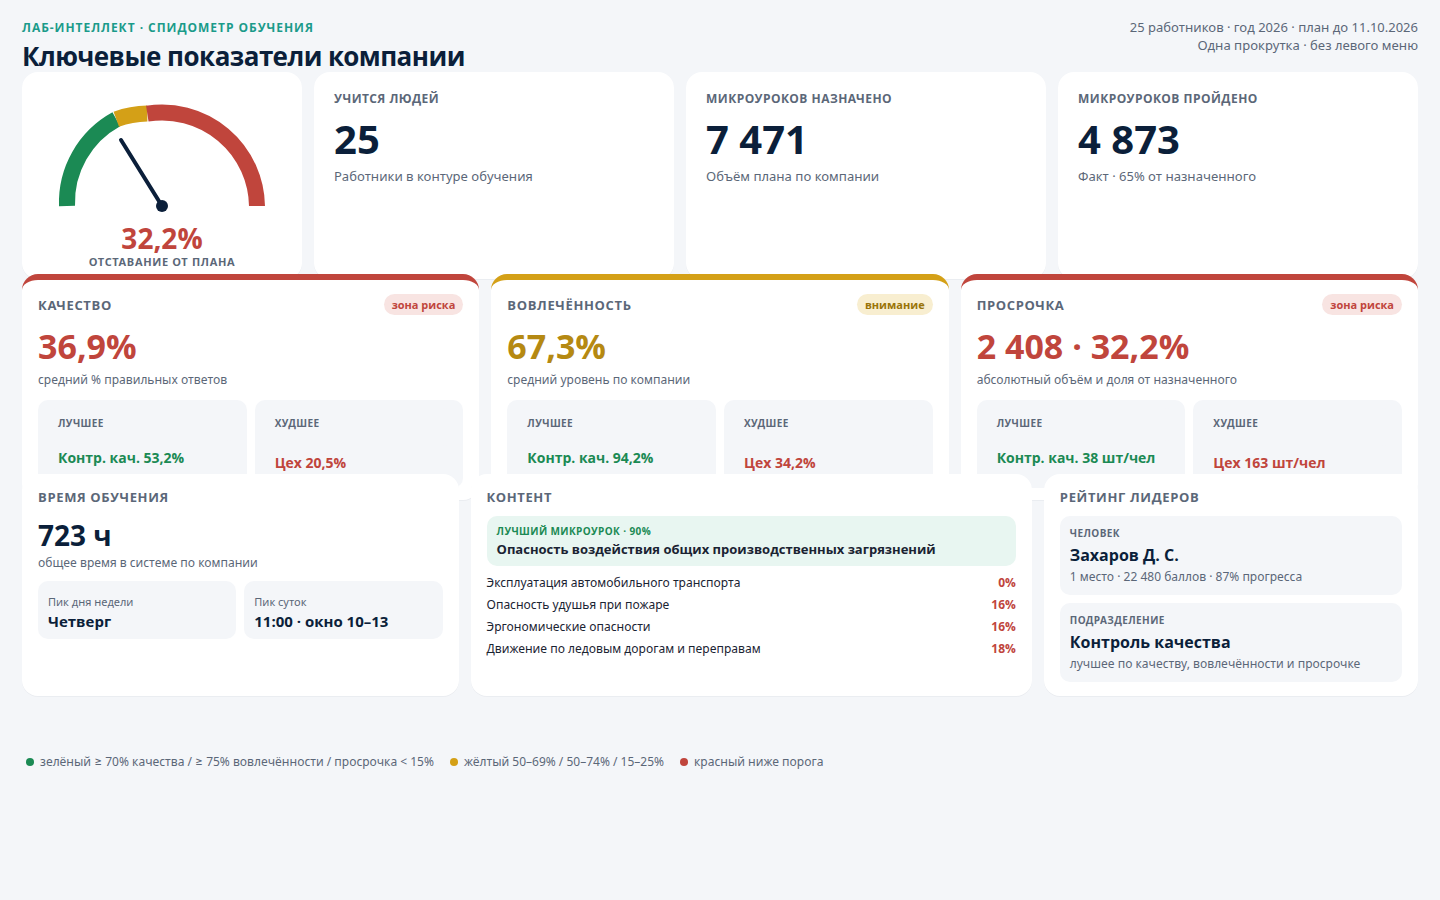
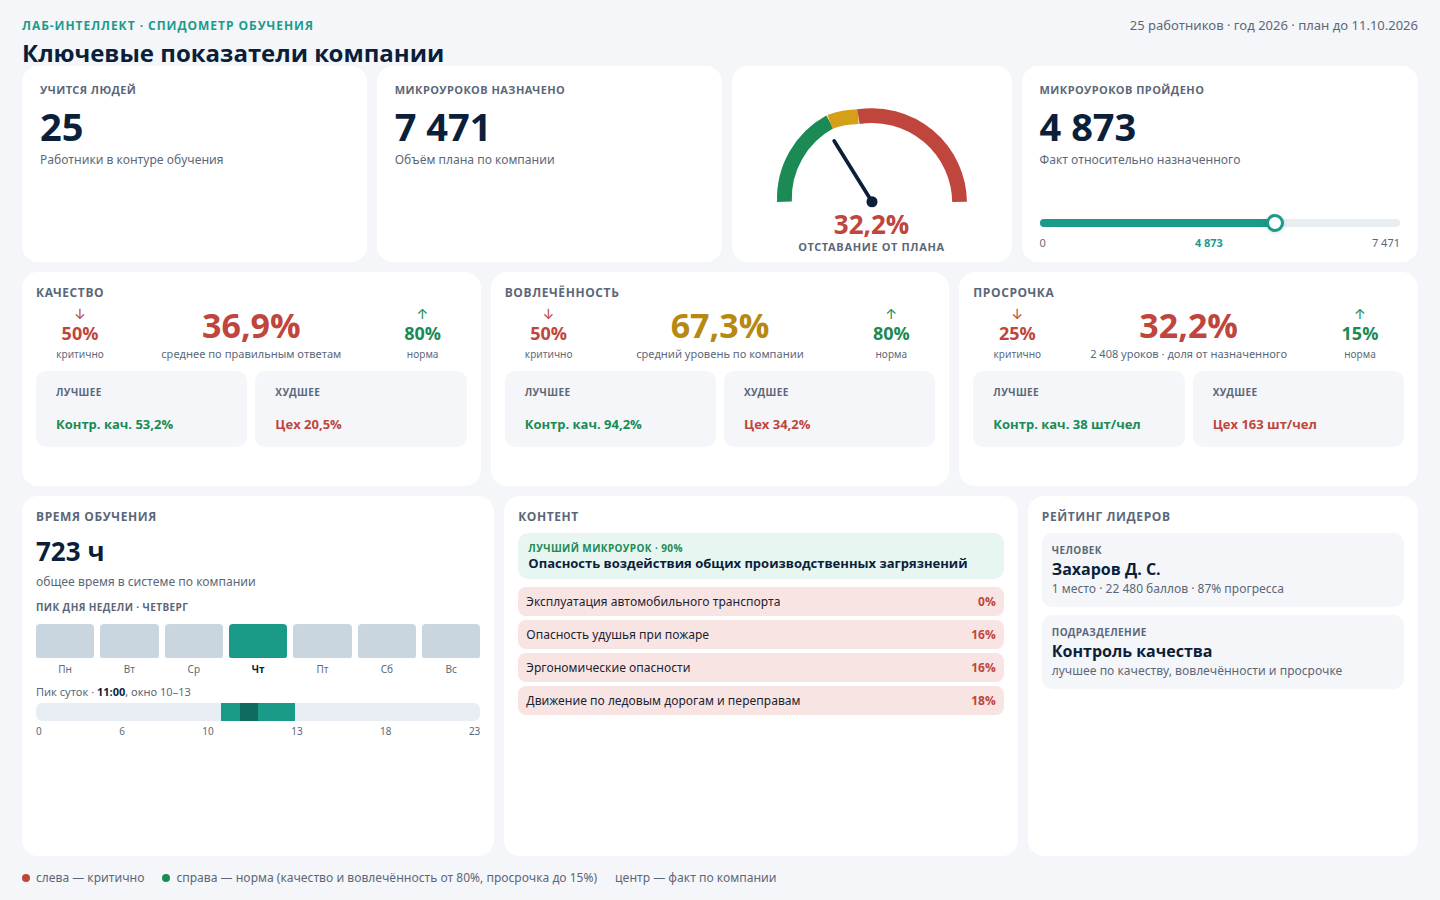
Revise the learning speedometer layout and scales.
Put headcount and assigned lessons first, then plan lag, then completed lessons on a 0-to-plan ruler. Quality, engagement and overdue now show critical vs norm around the actual value; time uses weekday bars and a highlighted hour window; weak content is marked red.

diff --git a/issledovaniya/vizualy/spidometr-obucheniya.html b/issledovaniya/vizualy/spidometr-obucheniya.html
@@ -13,109 +13,92 @@
       --red: #C0453C;
       --green: #1B8A54;
       --off: #F4F6F9;
-      --line: #E4E9F0;
       --white: #fff;
     }
     * { box-sizing: border-box; }
-    body {
-      margin: 0;
-      background: #E8EDF3;
-      font-family: Calibri, "Segoe UI", Inter, sans-serif;
-      color: var(--ink);
-    }
+    body { margin: 0; background: #E8EDF3; font-family: Calibri, "Segoe UI", Inter, sans-serif; color: var(--ink); }
     .board {
-      width: 1440px;
-      height: 900px;
-      margin: 0 auto;
-      background: var(--off);
-      padding: 18px 22px 16px;
-      display: grid;
-      grid-template-rows: 42px 190px 188px 152px 1fr;
-      gap: 12px;
+      width: 1440px; height: 900px; margin: 0 auto; background: var(--off);
+      padding: 16px 22px 12px;
+      display: grid; grid-template-rows: 40px 196px 214px 1fr 22px; gap: 10px;
     }
-    .top {
-      display: flex;
-      align-items: baseline;
-      justify-content: space-between;
-    }
+    .top { display: flex; align-items: baseline; justify-content: space-between; }
     .kicker { color: var(--teal); font-size: 12px; font-weight: 700; letter-spacing: .08em; }
-    h1 { margin: 2px 0 0; font-size: 26px; color: var(--navy); letter-spacing: -.02em; }
+    h1 { margin: 2px 0 0; font-size: 24px; color: var(--navy); }
     .meta { color: var(--muted); font-size: 13px; text-align: right; }
-    .hero {
-      display: grid;
-      grid-template-columns: 280px 1fr;
-      gap: 12px;
+    .card { background: var(--white); border-radius: 16px; }
+    .hero { display: grid; grid-template-columns: 1fr 1fr 280px 1.15fr; gap: 10px; }
+    .kpi { padding: 16px 18px 12px; display: flex; flex-direction: column; }
+    .t { font-size: 11px; font-weight: 700; color: var(--muted); letter-spacing: .04em; text-transform: uppercase; }
+    .n { font-size: 38px; font-weight: 700; color: var(--navy); line-height: 1.05; margin-top: 10px; }
+    .s { font-size: 12px; color: var(--muted); margin-top: 4px; }
+    .gauge-card { display: flex; flex-direction: column; align-items: center; justify-content: flex-end; padding: 4px 8px 8px; }
+    .gauge-value { font-size: 26px; font-weight: 700; color: var(--red); line-height: 1; }
+    .gauge-label { font-size: 11px; font-weight: 700; letter-spacing: .06em; color: var(--muted); margin-top: 2px; }
+    .ruler { margin-top: auto; padding-top: 14px; }
+    .ruler-track {
+      position: relative; height: 8px; background: #E8EEF3; border-radius: 99px; overflow: visible;
     }
-    .card {
-      background: var(--white);
-      border-radius: 16px;
-      box-shadow: 0 1px 0 rgba(11,31,58,.04);
+    .ruler-fill { position: absolute; left: 0; top: 0; height: 8px; background: #1A9B8A; border-radius: 99px; }
+    .ruler-mark {
+      position: absolute; top: -5px; width: 18px; height: 18px; margin-left: -9px;
+      background: #fff; border: 3px solid #1A9B8A; border-radius: 50%; box-shadow: 0 1px 4px rgba(11,31,58,.15);
     }
-    .gauge-card { display: flex; flex-direction: column; align-items: center; justify-content: flex-end; padding: 6px 8px 10px; }
-    .gauge-value { font-size: 28px; font-weight: 700; color: var(--red); line-height: 1; margin-top: -6px; }
-    .gauge-label { text-align: center; width: 100%; font-size: 11px; font-weight: 700; letter-spacing: .06em; color: var(--muted); margin-top: 2px; }
-    .kpis {
-      display: grid;
-      grid-template-columns: repeat(3, 1fr);
-      gap: 12px;
-    }
-    .kpi { padding: 18px 20px 16px; }
-    .kpi .t { font-size: 12px; font-weight: 700; color: var(--muted); letter-spacing: .04em; text-transform: uppercase; }
-    .kpi .n { font-size: 40px; font-weight: 700; color: var(--navy); line-height: 1.1; margin-top: 10px; }
-    .kpi .s { font-size: 13px; color: var(--muted); margin-top: 6px; }
-    .row3 {
-      display: grid;
-      grid-template-columns: 1fr 1fr 1fr;
-      gap: 12px;
-    }
-    .metric { padding: 14px 16px 12px; border-top: 6px solid #ccc; }
-    .metric.red { border-top-color: var(--red); }
-    .metric.yellow { border-top-color: var(--gold); }
-    .metric.green { border-top-color: var(--green); }
-    .metric .head { display: flex; justify-content: space-between; align-items: center; }
-    .metric h2 { margin: 0; font-size: 13px; font-weight: 700; letter-spacing: .05em; text-transform: uppercase; color: var(--muted); }
-    .pill { font-size: 11px; font-weight: 700; padding: 3px 8px; border-radius: 999px; }
-    .pill.red { background: #F8E4E2; color: var(--red); }
-    .pill.yellow { background: #F8EED0; color: #9A7408; }
-    .pill.green { background: #D9F0E4; color: var(--green); }
-    .big { font-size: 34px; font-weight: 700; margin: 8px 0 2px; }
-    .metric.red .big { color: var(--red); }
-    .metric.yellow .big { color: #B58912; }
-    .metric.green .big { color: var(--green); }
-    .sub { font-size: 12px; color: var(--muted); }
-    .bw { display: grid; grid-template-columns: 1fr 1fr; gap: 8px; margin-top: 12px; }
-    .bw div { background: var(--off); border-radius: 10px; padding: 8px 10px; }
+    .ruler-labs { display: flex; justify-content: space-between; margin-top: 8px; font-size: 11px; color: var(--muted); }
+    .ruler-labs b { color: var(--teal); }
+    .row3 { display: grid; grid-template-columns: 1fr 1fr 1fr; gap: 10px; }
+    .metric { padding: 12px 14px 12px; }
+    .metric h2 { margin: 0; font-size: 12px; font-weight: 700; letter-spacing: .05em; text-transform: uppercase; color: var(--muted); }
+    .tri { display: grid; grid-template-columns: 88px 1fr 88px; align-items: center; gap: 6px; margin-top: 6px; }
+    .side { text-align: center; }
+    .side .arr { font-size: 14px; line-height: 1; }
+    .side .val { font-size: 18px; font-weight: 700; }
+    .side .cap { font-size: 10px; color: var(--muted); margin-top: 2px; }
+    .side.bad .arr, .side.bad .val { color: var(--red); }
+    .side.good .arr, .side.good .val { color: var(--green); }
+    .mid { text-align: center; }
+    .mid .big { font-size: 34px; font-weight: 700; line-height: 1; }
+    .mid.red .big { color: var(--red); }
+    .mid.yellow .big { color: #B58912; }
+    .mid .hint { font-size: 11px; color: var(--muted); margin-top: 4px; }
+    .bw { display: grid; grid-template-columns: 1fr 1fr; gap: 8px; margin-top: 10px; }
+    .bw div { background: var(--off); border-radius: 10px; padding: 7px 10px; }
     .bw .l { font-size: 10px; font-weight: 700; color: var(--muted); letter-spacing: .04em; text-transform: uppercase; }
-    .bw .v { font-size: 14px; font-weight: 700; margin-top: 2px; }
-    .bw .best .v { color: var(--green); }
-    .bw .worst .v { color: var(--red); }
-    .bottom {
-      display: grid;
-      grid-template-columns: 1.05fr 1.35fr .9fr;
-      gap: 12px;
-    }
-    .block { padding: 14px 16px; }
-    .block h2 { margin: 0 0 10px; font-size: 13px; font-weight: 700; letter-spacing: .05em; text-transform: uppercase; color: var(--muted); }
-    .time-num { font-size: 28px; font-weight: 700; color: var(--navy); }
-    .peak { margin-top: 10px; display: flex; gap: 8px; }
-    .chip { background: var(--off); border-radius: 10px; padding: 8px 10px; flex: 1; }
-    .chip b { display: block; font-size: 15px; color: var(--navy); }
-    .chip span { font-size: 11px; color: var(--muted); }
+    .bw .v { font-size: 13px; font-weight: 700; margin-top: 2px; }
+    .best .v { color: var(--green); }
+    .worst .v { color: var(--red); }
+    .bottom { display: grid; grid-template-columns: 1.15fr 1.25fr .95fr; gap: 10px; min-height: 0; }
+    .block { padding: 12px 14px; }
+    .block h2 { margin: 0 0 8px; font-size: 12px; font-weight: 700; letter-spacing: .05em; text-transform: uppercase; color: var(--muted); }
+    .time-num { font-size: 26px; font-weight: 700; color: var(--navy); }
+    .bars { display: flex; align-items: flex-end; gap: 6px; height: 52px; margin-top: 10px; }
+    .bar { flex: 1; display: flex; flex-direction: column; align-items: center; justify-content: flex-end; height: 100%; }
+    .bar i { display: block; width: 100%; border-radius: 4px 4px 2px 2px; background: #C9D6E0; }
+    .bar.peak i { background: #1A9B8A; }
+    .bar span { font-size: 10px; color: var(--muted); margin-top: 4px; }
+    .bar.peak span { color: var(--navy); font-weight: 700; }
+    .clock-wrap { margin-top: 8px; }
+    .clock-lab { font-size: 11px; color: var(--muted); margin-bottom: 4px; }
+    .clock-lab b { color: var(--navy); }
+    .hours { display: flex; height: 18px; border-radius: 6px; overflow: hidden; background: #E8EEF3; }
+    .hours span { flex: 1; }
+    .hours span.on { background: #1A9B8A; }
+    .hours span.peak { background: #0E6B5E; }
+    .h-labs { display: flex; justify-content: space-between; font-size: 10px; color: var(--muted); margin-top: 3px; }
     .best-lesson { background: #E8F6F1; border-radius: 10px; padding: 8px 10px; margin-bottom: 8px; }
     .best-lesson .l { font-size: 10px; font-weight: 700; color: var(--green); letter-spacing: .04em; text-transform: uppercase; }
     .best-lesson .n { font-size: 13px; font-weight: 700; margin-top: 2px; }
-    .worst { display: grid; gap: 5px; }
-    .wrow { display: grid; grid-template-columns: 1fr auto; gap: 8px; align-items: center; font-size: 12px; }
+    .wrow {
+      display: grid; grid-template-columns: 1fr auto; gap: 8px; align-items: center;
+      font-size: 12px; background: #F8E4E2; border-radius: 8px; padding: 6px 8px; margin-bottom: 4px;
+    }
     .wrow b { color: var(--red); }
     .lead { display: grid; gap: 8px; }
     .lead .box { background: var(--off); border-radius: 10px; padding: 10px; }
     .lead .l { font-size: 10px; font-weight: 700; color: var(--muted); letter-spacing: .04em; text-transform: uppercase; }
     .lead .n { font-size: 16px; font-weight: 700; color: var(--navy); margin-top: 4px; }
     .lead .d { font-size: 12px; color: var(--muted); margin-top: 2px; }
-    .legend {
-      display: flex; align-items: center; gap: 16px; color: var(--muted); font-size: 12px;
-      padding: 0 4px;
-    }
+    .legend { display: flex; align-items: center; gap: 18px; color: var(--muted); font-size: 12px; }
     .dot { width: 8px; height: 8px; border-radius: 50%; display: inline-block; margin-right: 6px; }
   </style>
 </head>
@@ -126,64 +109,110 @@
         <div class="kicker">ЛАБ-ИНТЕЛЛЕКТ · СПИДОМЕТР ОБУЧЕНИЯ</div>
         <h1>Ключевые показатели компании</h1>
       </div>
-      <div class="meta">25 работников · год 2026 · план до 11.10.2026<br>Одна прокрутка · без левого меню</div>
+      <div class="meta">25 работников · год 2026 · план до 11.10.2026</div>
     </div>
 
     <div class="hero">
+      <div class="card kpi">
+        <div class="t">Учится людей</div>
+        <div class="n">25</div>
+        <div class="s">Работники в контуре обучения</div>
+      </div>
+      <div class="card kpi">
+        <div class="t">Микроуроков назначено</div>
+        <div class="n">7 471</div>
+        <div class="s">Объём плана по компании</div>
+      </div>
       <div class="card gauge-card">
-        <svg width="250" height="152" viewBox="0 0 250 152">
-          <!-- зоны: 0–15% зелёный, 15–25% жёлтый, 25–100% красный -->
-          <path d="M30 128 A95 95 0 0 1 79.3 41.3" fill="none" stroke="#1B8A54" stroke-width="16" stroke-linecap="butt"/>
-          <path d="M79.3 41.3 A95 95 0 0 1 110.3 35.6" fill="none" stroke="#D4A017" stroke-width="16" stroke-linecap="butt"/>
-          <path d="M110.3 35.6 A95 95 0 0 1 220 128" fill="none" stroke="#C0453C" stroke-width="16" stroke-linecap="butt"/>
-          <line x1="125" y1="128" x2="84" y2="62" stroke="#0B1F3A" stroke-width="4" stroke-linecap="round"/>
-          <circle cx="125" cy="128" r="6" fill="#0B1F3A"/>
+        <svg width="240" height="118" viewBox="0 0 250 128">
+          <path d="M30 118 A95 95 0 0 1 79.3 31.3" fill="none" stroke="#1B8A54" stroke-width="16"/>
+          <path d="M79.3 31.3 A95 95 0 0 1 110.3 25.6" fill="none" stroke="#D4A017" stroke-width="16"/>
+          <path d="M110.3 25.6 A95 95 0 0 1 220 118" fill="none" stroke="#C0453C" stroke-width="16"/>
+          <line x1="125" y1="118" x2="84" y2="52" stroke="#0B1F3A" stroke-width="4" stroke-linecap="round"/>
+          <circle cx="125" cy="118" r="6" fill="#0B1F3A"/>
         </svg>
         <div class="gauge-value">32,2%</div>
         <div class="gauge-label">ОТСТАВАНИЕ ОТ ПЛАНА</div>
       </div>
-      <div class="kpis">
-        <div class="card kpi">
-          <div class="t">Учится людей</div>
-          <div class="n">25</div>
-          <div class="s">Работники в контуре обучения</div>
-        </div>
-        <div class="card kpi">
-          <div class="t">Микроуроков назначено</div>
-          <div class="n">7 471</div>
-          <div class="s">Объём плана по компании</div>
-        </div>
-        <div class="card kpi">
-          <div class="t">Микроуроков пройдено</div>
-          <div class="n">4 873</div>
-          <div class="s">Факт · 65% от назначенного</div>
+      <div class="card kpi">
+        <div class="t">Микроуроков пройдено</div>
+        <div class="n">4 873</div>
+        <div class="s">Факт относительно назначенного</div>
+        <div class="ruler">
+          <div class="ruler-track">
+            <div class="ruler-fill" style="width:65.2%"></div>
+            <div class="ruler-mark" style="left:65.2%"></div>
+          </div>
+          <div class="ruler-labs"><span>0</span><b>4 873</b><span>7 471</span></div>
         </div>
       </div>
     </div>
 
     <div class="row3">
-      <div class="card metric red">
-        <div class="head"><h2>Качество</h2><span class="pill red">зона риска</span></div>
-        <div class="big">36,9%</div>
-        <div class="sub">средний % правильных ответов</div>
+      <div class="card metric">
+        <h2>Качество</h2>
+        <div class="tri">
+          <div class="side bad">
+            <div class="arr">↓</div>
+            <div class="val">50%</div>
+            <div class="cap">критично</div>
+          </div>
+          <div class="mid red">
+            <div class="big">36,9%</div>
+            <div class="hint">среднее по правильным ответам</div>
+          </div>
+          <div class="side good">
+            <div class="arr">↑</div>
+            <div class="val">80%</div>
+            <div class="cap">норма</div>
+          </div>
+        </div>
         <div class="bw">
           <div class="best"><div class="l">Лучшее</div><div class="v">Контр. кач. 53,2%</div></div>
           <div class="worst"><div class="l">Худшее</div><div class="v">Цех 20,5%</div></div>
         </div>
       </div>
-      <div class="card metric yellow">
-        <div class="head"><h2>Вовлечённость</h2><span class="pill yellow">внимание</span></div>
-        <div class="big">67,3%</div>
-        <div class="sub">средний уровень по компании</div>
+      <div class="card metric">
+        <h2>Вовлечённость</h2>
+        <div class="tri">
+          <div class="side bad">
+            <div class="arr">↓</div>
+            <div class="val">50%</div>
+            <div class="cap">критично</div>
+          </div>
+          <div class="mid yellow">
+            <div class="big">67,3%</div>
+            <div class="hint">средний уровень по компании</div>
+          </div>
+          <div class="side good">
+            <div class="arr">↑</div>
+            <div class="val">80%</div>
+            <div class="cap">норма</div>
+          </div>
+        </div>
         <div class="bw">
           <div class="best"><div class="l">Лучшее</div><div class="v">Контр. кач. 94,2%</div></div>
           <div class="worst"><div class="l">Худшее</div><div class="v">Цех 34,2%</div></div>
         </div>
       </div>
-      <div class="card metric red">
-        <div class="head"><h2>Просрочка</h2><span class="pill red">зона риска</span></div>
-        <div class="big">2 408 · 32,2%</div>
-        <div class="sub">абсолютный объём и доля от назначенного</div>
+      <div class="card metric">
+        <h2>Просрочка</h2>
+        <div class="tri">
+          <div class="side bad">
+            <div class="arr">↓</div>
+            <div class="val">25%</div>
+            <div class="cap">критично</div>
+          </div>
+          <div class="mid red">
+            <div class="big">32,2%</div>
+            <div class="hint">2 408 уроков · доля от назначенного</div>
+          </div>
+          <div class="side good">
+            <div class="arr">↑</div>
+            <div class="val">15%</div>
+            <div class="cap">норма</div>
+          </div>
+        </div>
         <div class="bw">
           <div class="best"><div class="l">Лучшее</div><div class="v">Контр. кач. 38 шт/чел</div></div>
           <div class="worst"><div class="l">Худшее</div><div class="v">Цех 163 шт/чел</div></div>
@@ -195,10 +224,27 @@
       <div class="card block">
         <h2>Время обучения</h2>
         <div class="time-num">723 ч</div>
-        <div class="sub">общее время в системе по компании</div>
-        <div class="peak">
-          <div class="chip"><span>Пик дня недели</span><b>Четверг</b></div>
-          <div class="chip"><span>Пик суток</span><b>11:00 · окно 10–13</b></div>
+        <div class="s">общее время в системе по компании</div>
+        <div class="s" style="margin-top:10px;font-weight:700;color:#5B6778;text-transform:uppercase;letter-spacing:.04em;font-size:10px">Пик дня недели · четверг</div>
+        <div class="bars">
+          <div class="bar" style="height:100%"><i style="height:92%"></i><span>Пн</span></div>
+          <div class="bar" style="height:100%"><i style="height:86%"></i><span>Вт</span></div>
+          <div class="bar" style="height:100%"><i style="height:89%"></i><span>Ср</span></div>
+          <div class="bar peak" style="height:100%"><i style="height:100%"></i><span>Чт</span></div>
+          <div class="bar" style="height:100%"><i style="height:84%"></i><span>Пт</span></div>
+          <div class="bar" style="height:100%"><i style="height:90%"></i><span>Сб</span></div>
+          <div class="bar" style="height:100%"><i style="height:92%"></i><span>Вс</span></div>
+        </div>
+        <div class="clock-wrap">
+          <div class="clock-lab">Пик суток · <b>11:00</b>, окно 10–13</div>
+          <div class="hours">
+            <span></span><span></span><span></span><span></span><span></span>
+            <span></span><span></span><span></span><span></span><span></span>
+            <span class="on"></span><span class="peak"></span><span class="on"></span><span class="on"></span>
+            <span></span><span></span><span></span><span></span><span></span>
+            <span></span><span></span><span></span><span></span><span></span>
+          </div>
+          <div class="h-labs"><span>0</span><span>6</span><span>10</span><span>13</span><span>18</span><span>23</span></div>
         </div>
       </div>
       <div class="card block">
@@ -207,12 +253,10 @@
           <div class="l">Лучший микроурок · 90%</div>
           <div class="n">Опасность воздействия общих производственных загрязнений</div>
         </div>
-        <div class="worst">
-          <div class="wrow"><span>Эксплуатация автомобильного транспорта</span><b>0%</b></div>
-          <div class="wrow"><span>Опасность удушья при пожаре</span><b>16%</b></div>
-          <div class="wrow"><span>Эргономические опасности</span><b>16%</b></div>
-          <div class="wrow"><span>Движение по ледовым дорогам и переправам</span><b>18%</b></div>
-        </div>
+        <div class="wrow"><span>Эксплуатация автомобильного транспорта</span><b>0%</b></div>
+        <div class="wrow"><span>Опасность удушья при пожаре</span><b>16%</b></div>
+        <div class="wrow"><span>Эргономические опасности</span><b>16%</b></div>
+        <div class="wrow"><span>Движение по ледовым дорогам и переправам</span><b>18%</b></div>
       </div>
       <div class="card block">
         <h2>Рейтинг лидеров</h2>
@@ -232,9 +276,9 @@
     </div>
 
     <div class="legend">
-      <span><i class="dot" style="background:#1B8A54"></i>зелёный ≥ 70% качества / ≥ 75% вовлечённости / просрочка &lt; 15%</span>
-      <span><i class="dot" style="background:#D4A017"></i>жёлтый 50–69% / 50–74% / 15–25%</span>
-      <span><i class="dot" style="background:#C0453C"></i>красный ниже порога</span>
+      <span><i class="dot" style="background:#C0453C"></i>слева — критично</span>
+      <span><i class="dot" style="background:#1B8A54"></i>справа — норма (качество и вовлечённость от 80%, просрочка до 15%)</span>
+      <span>центр — факт по компании</span>
     </div>
   </div>
 </body>
